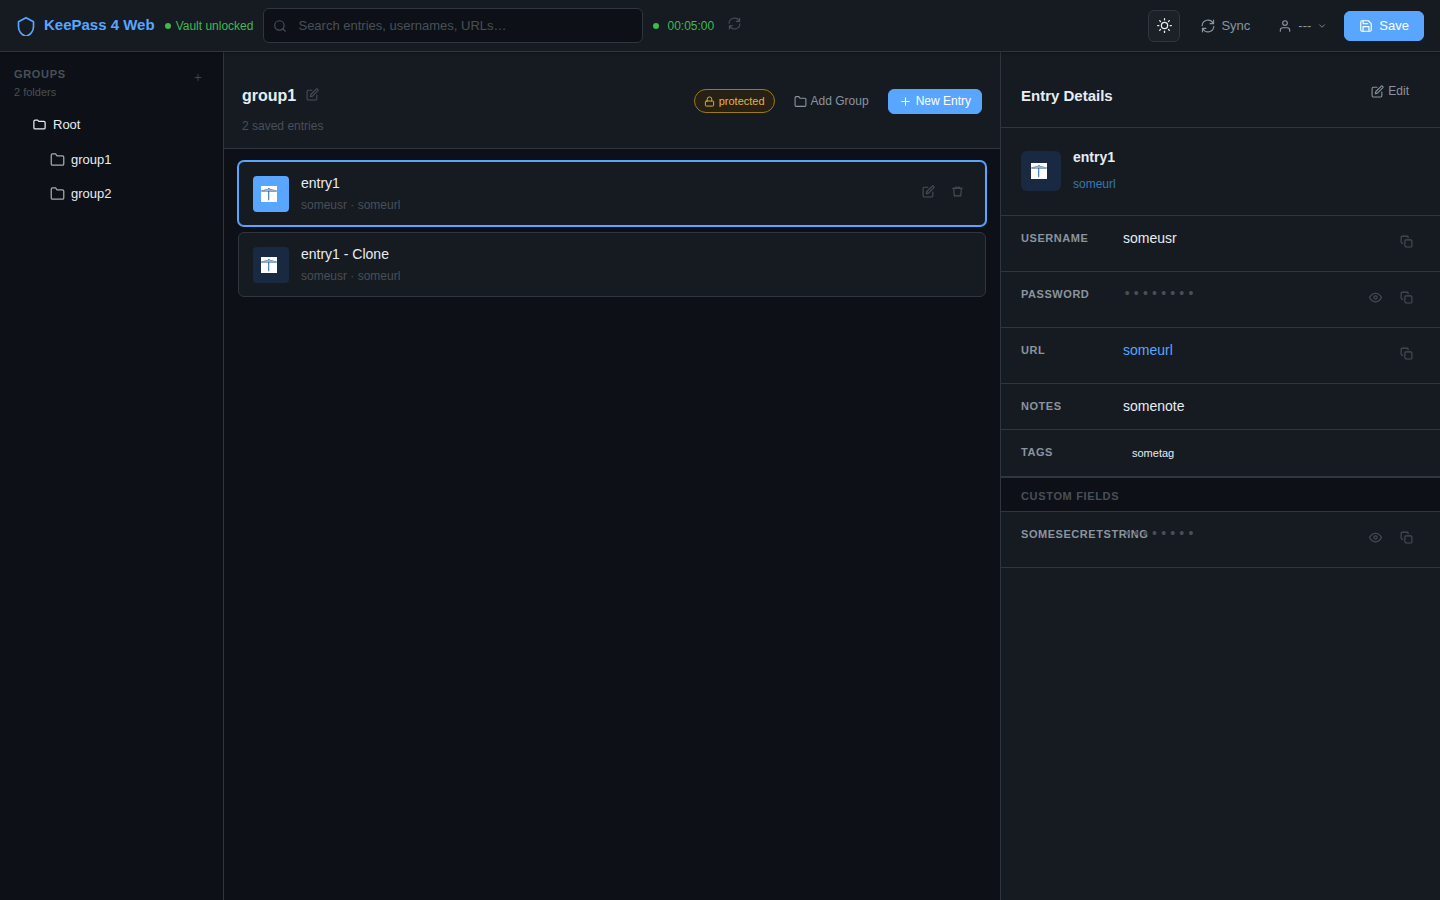
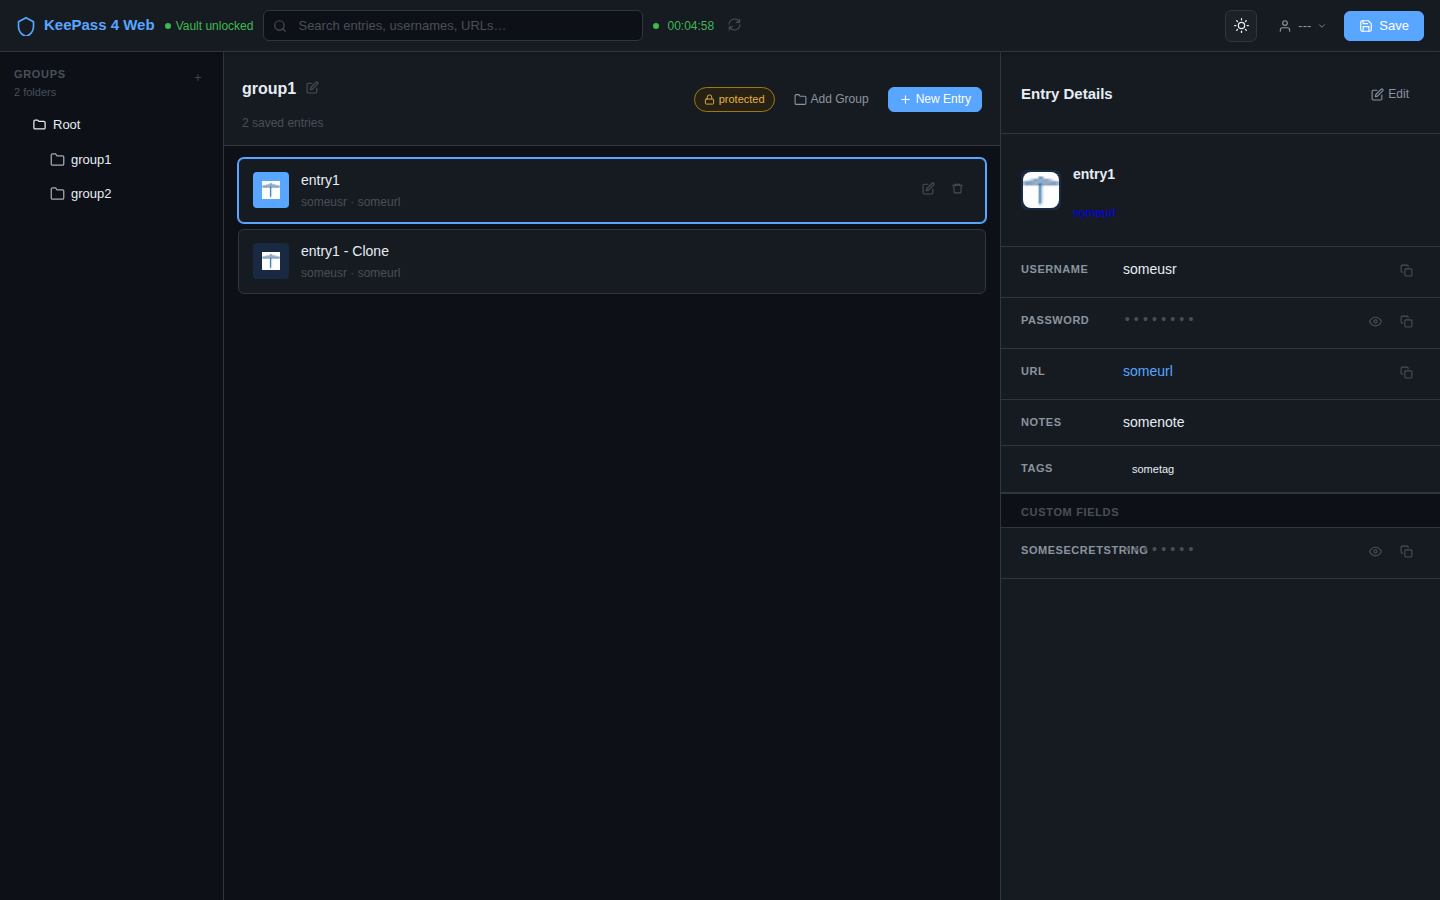
Drop bootstrap and jquery, which the interface no longer uses (#349)

diff --git a/js/style/app.css b/js/style/app.css
@@ -1,139 +1,46 @@
-@import url('node_modules/bootstrap/dist/css/bootstrap.min.css');
 @import url('./vault.css');
 
+/* What the vault does not style: the pages around it and the busy state they
+   show while a request is in flight. The rest of the interface is in
+   vault.css, which brings its own reset and palette. */
+
+*,
+*::before,
+*::after {
+    box-sizing: border-box;
+}
+
 body {
-    background-color: #ddd;
+    margin: 0;
+    background: var(--kp-bg);
+    color: var(--kp-text);
+    font-family: -apple-system, BlinkMacSystemFont, 'Segoe UI', Roboto, 'Helvetica Neue', sans-serif;
+    font-size: 14px;
+    line-height: 1.5;
 }
 
-.kp-login {
-    margin-top: 65px !important;
-    padding: 15px;
-    width: auto;
-    height: auto;
-    min-height: 200px;
-    min-width: 320px;
-    max-width: 400px;
-    background-color: #f3f3f3;
+/* the interface styles its own links and sizes its own icons, which the
+   framework that used to be here reset for it */
+a {
+    text-decoration: none;
+}
+
+a:hover,
+a:focus-visible {
+    text-decoration: underline;
+}
+
+img {
+    max-width: 100%;
+    vertical-align: middle;
+}
+
+/* the login pages centre their card in this */
+.container {
+    width: 100%;
+    max-width: 1140px;
     margin: 0 auto;
-    border-radius: 9px;
-    border: 1px solid #c5c5c5;
-    text-align: center;
-}
-
-.login-inner {
-    margin: 0 auto;
-    max-width: 380px;
-    width: auto;
-}
-
-.login > h4 {
-    font-size: 20px;
-    margin-left: 5px;
-    font-weight: 600;
-}
-
-.user {
-    margin-bottom: 5px;
-}
-
-.password {
-    margin-bottom: 15px;
-}
-
-.submit {
-    margin-top: 5px;
-}
-
-.login-error {
-    margin-top: 15px;
-    animation: blinker 1s linear;
-    margin-bottom: 0;
-}
-
-@keyframes blinker {
-    50% {
-        opacity: 0.0;
-    }
-}
-
-.panel-body {
-    background-color: #EEEEEE;
-}
-
-/*
-** leave more space on mobile devices,
-** showing more letters of the label
-*/
-@media screen and (max-width: 767px) {
-    .panel-body {
-        padding-left: 5px;
-        padding-right: 5px;
-    }
-}
-
-.kp-files {
-    text-align: center;
-}
-
-.kp-fields {
-    text-align: center;
-}
-
-.backend-icon {
-    height: auto;
-    width: auto;
-    max-height: 25px;
-}
-
-.kp-entry-label {
-    width: 21%;
-    max-width: 120px;
-}
-
-.kp-entry-value {
-    width: 69%;
-}
-
-.kp-entry-buttons {
-    width: 91px;
-    max-width: 91px;
-}
-
-.kp-wrap {
-    text-overflow: ellipsis;
-    overflow: hidden;
-    white-space: nowrap;
-}
-
-.kp-wrap:hover {
-    text-overflow: clip;
-    white-space: pre-wrap;
-    word-break: break-all;
-}
-
-.kp-wrap:active {
-    text-overflow: clip;
-    white-space: pre-wrap;
-    word-break: break-all;
-}
-
-.kp-wrap-comment {
-    white-space: pre-wrap;
-}
-
-.kp-table {
-    table-layout: fixed;
-}
-
-.kp-icon {
-    height: auto;
-    width: auto;
-    max-width: 16px;
-    margin-right: 0.25em;
-}
-
-.dir-tree {
-    margin-bottom: 20px;
+    padding: 0 15px;
 }
 
 .loading-mask {
@@ -148,15 +55,6 @@ body {
     bottom: 0;
     left: 0;
     background-color: rgba(0, 0, 0, 0.25);
-}
-
-@keyframes spin {
-    from {
-        transform: rotate(0deg);
-    }
-    to {
-        transform: rotate(359deg);
-    }
 }
 
 .loading-mask::after {
@@ -175,43 +73,11 @@ body {
     z-index: 2000;
 }
 
-.treeview-header {
-    cursor: pointer;
+@keyframes spin {
+    from {
+        transform: rotate(0);
+    }
+    to {
+        transform: rotate(360deg);
+    }
 }
-
-.treeview-header:hover {
-    background-color: #F9F9F9;
-}
-
-.treeview-body {
-    background-color: #EEEEEE;
-}
-
-.treeview-body .list-group-item {
-    cursor: pointer;
-    padding: 3px 10px;
-    background-color: #EEEEEE;
-}
-
-.treeview-body .list-group-item:hover {
-    background-color: #F5F5F5;
-}
-
-.treeview-body span.indent {
-    margin-left: 10px;
-    margin-right: 10px;
-}
-
-.treeview-body img {
-    margin-left: 10px;
-}
-
-.groupview-body tr {
-    cursor: pointer;
-}
-
-.glyphicon-none:before {
-    content: "\2122";
-    color: transparent !important;
-}
-

diff --git a/js/style/vault.css b/js/style/vault.css
@@ -540,6 +540,8 @@ body:has(.kp-app) {
   display: flex; align-items: center; justify-content: center;
   color: var(--kp-primary); flex-shrink: 0;
 }
+/* the icon of an entry sits inside that square rather than filling it */
+.kp-detail-icon img { width: 24px; height: 24px; object-fit: contain; }
 .kp-detail-icon-info h4 { font-size: 14px; font-weight: 600; }
 .kp-detail-icon-info p { font-size: 12px; color: var(--kp-text-muted); margin-top: 1px; }
 .kp-detail-modified {

diff --git a/js/scripts/NavBar.js b/js/scripts/NavBar.js
@@ -15,9 +15,6 @@ function applyTheme(t) {
     localStorage.setItem('kp-theme', t)
 }
 
-window.$ = window.jQuery = require('jquery')
-require('bootstrap')
-
 class NavBar extends React.Component {
     constructor(props) {
         super(props)
